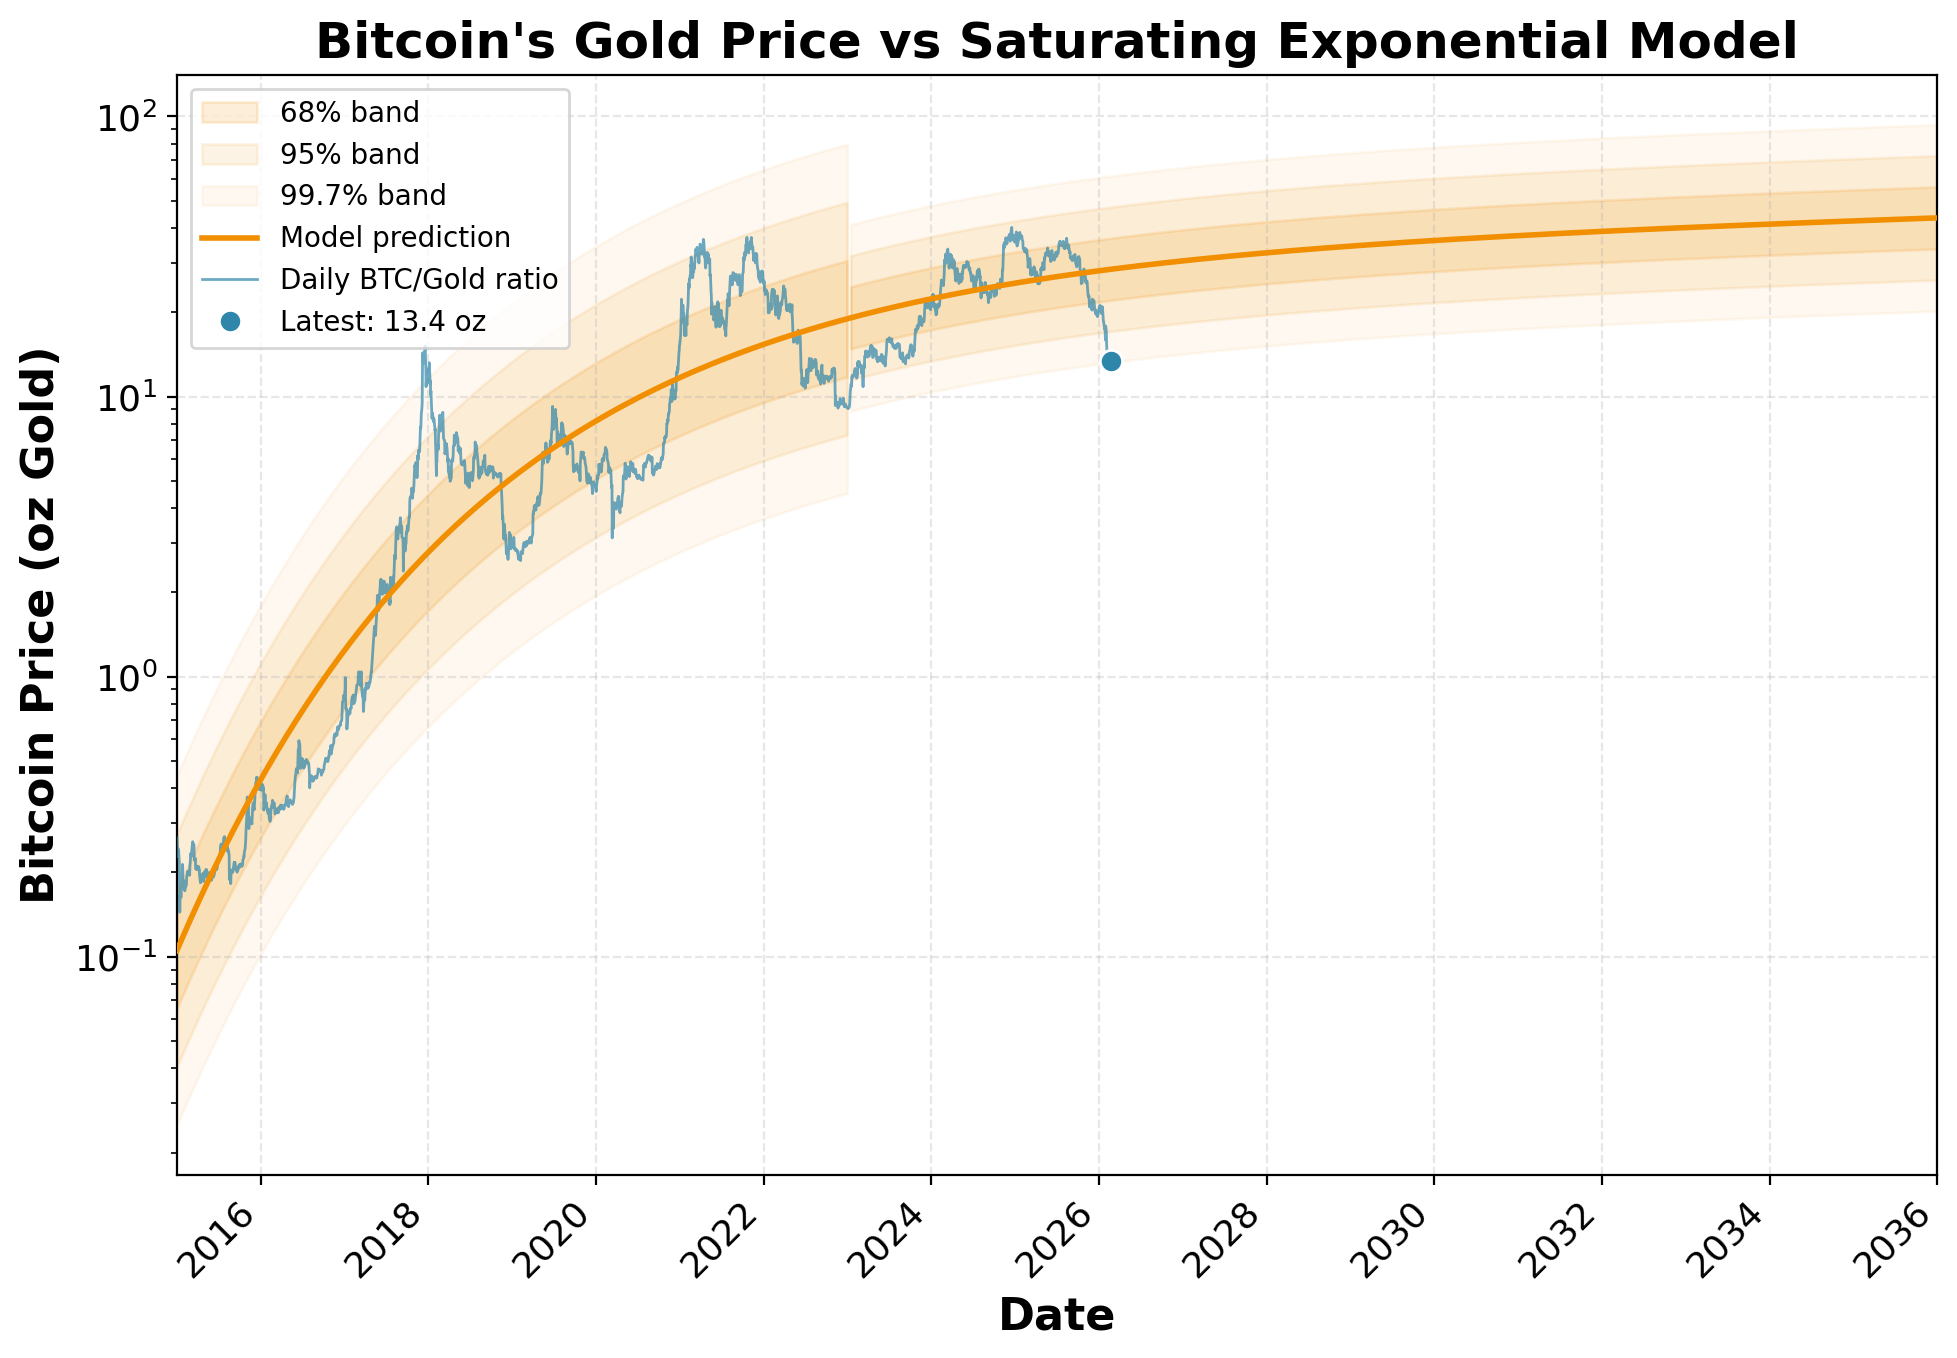
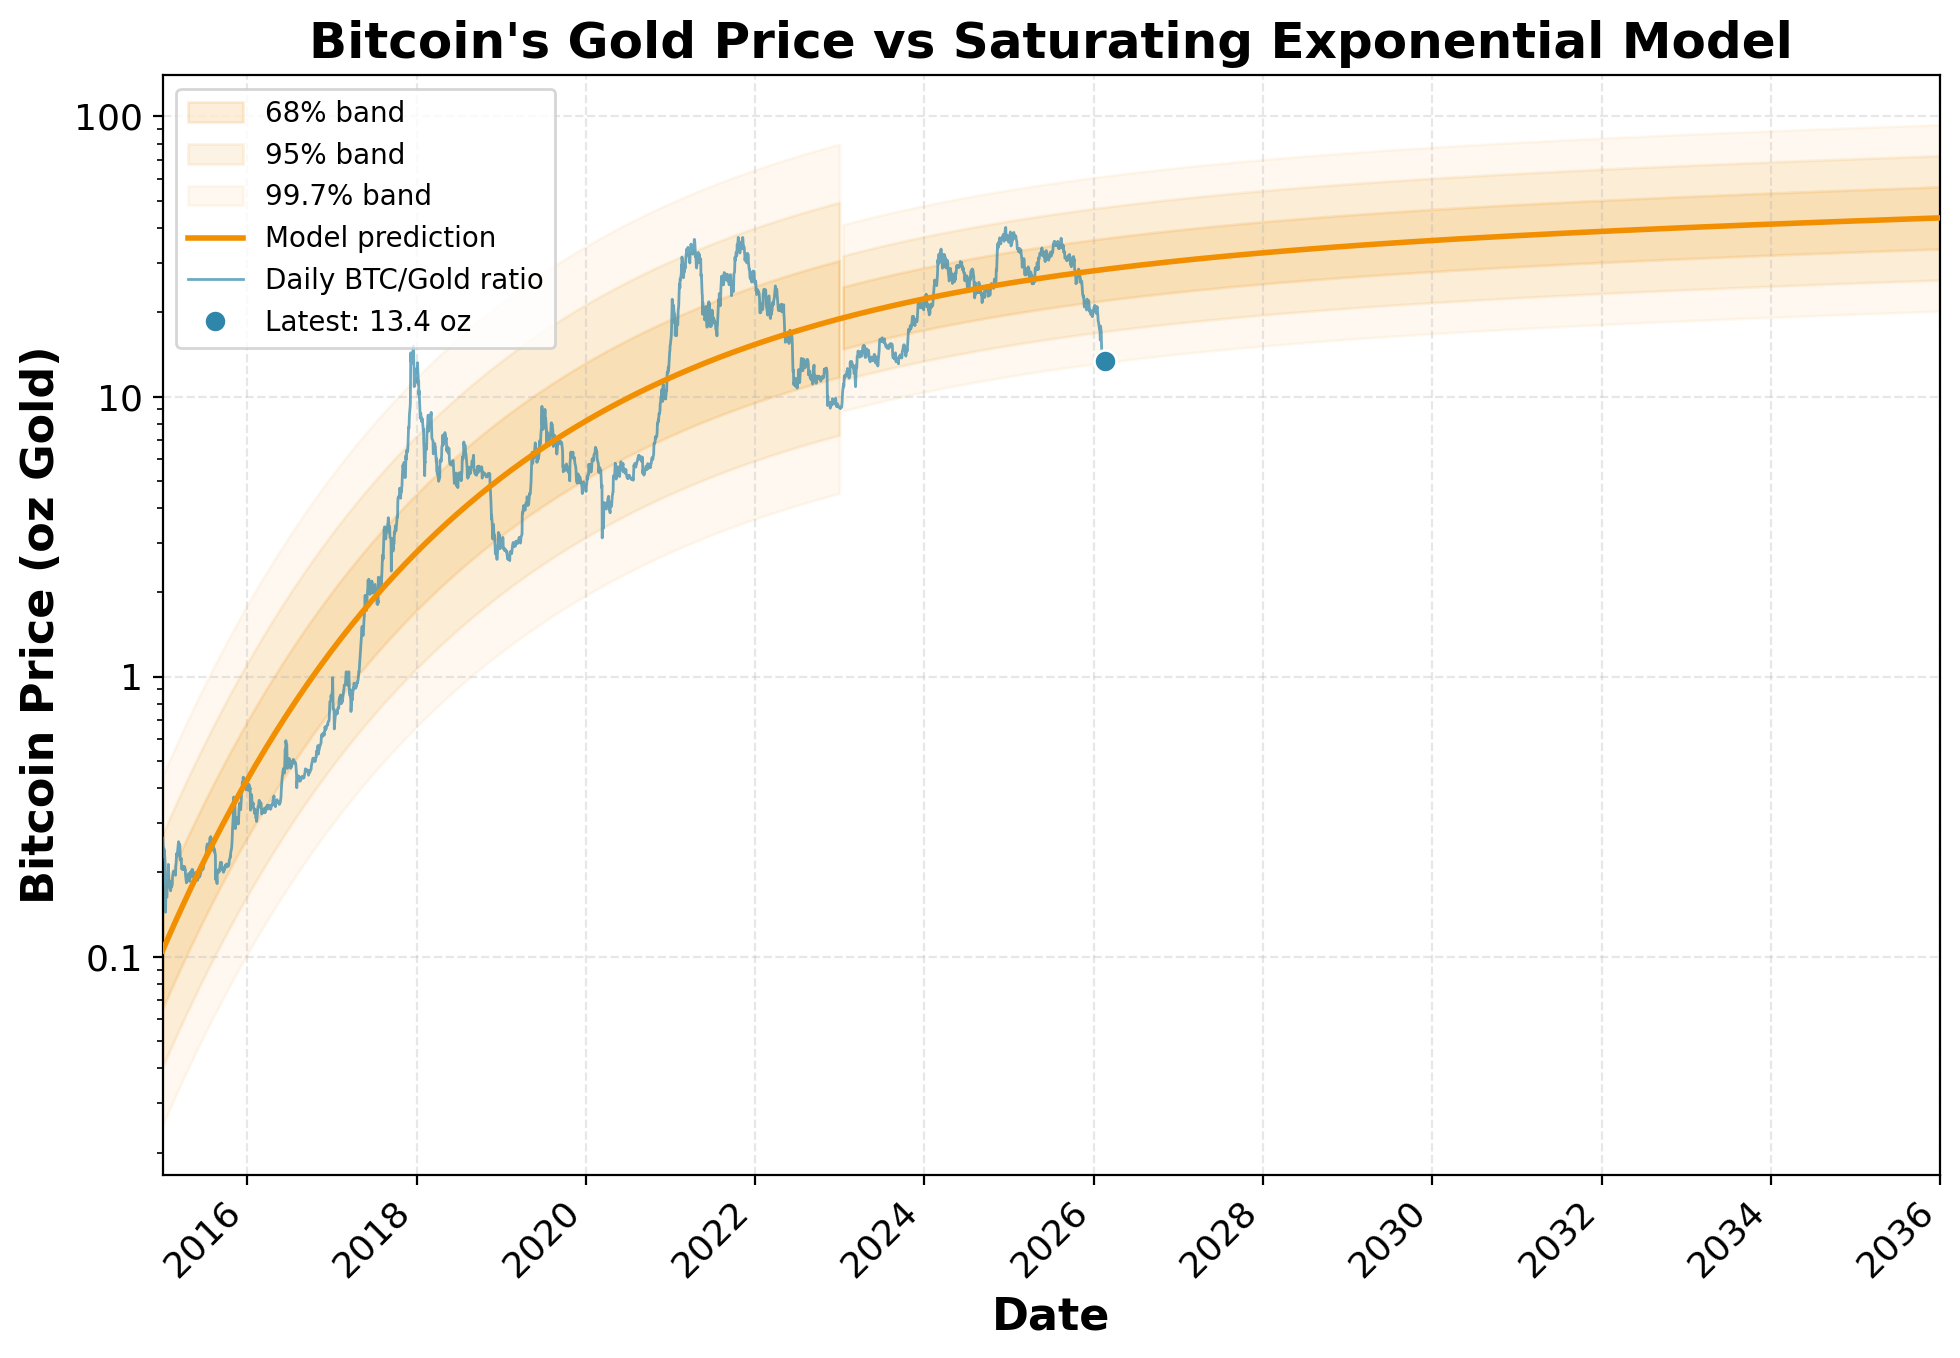
Use decimal format on ratio plot y-axis instead of scientific notation

diff --git a/index.html b/index.html
@@ -87,7 +87,7 @@
 </details>
 
 <div class="footer">
-  <p>Last updated: 2026-02-22 21:26 UTC</p>
+  <p>Last updated: 2026-02-22 21:38 UTC</p>
   <p>Data: BTC-USD and Gold futures (closing prices) via Yahoo Finance.</p>
   <p><a href="bitcoin_gold_biggs.pdf">Paper (PDF)</a> |
      <a href="bitcoin_gold_Biggs_(20260127).html">Paper (HTML)</a> |

diff --git a/update_dashboard.py b/update_dashboard.py
@@ -240,6 +240,7 @@ def create_ratio_plot(daily_df, output_path):
     ax.set_title("Bitcoin's Gold Price vs Saturating Exponential Model",
                  fontweight='bold')
     ax.set_xlim(pd.to_datetime('2015-01-01'), pd.to_datetime('2036-01-01'))
+    ax.yaxis.set_major_formatter(plt.FuncFormatter(lambda y, _: f'{y:g}'))
     ax.legend(loc='upper left', fontsize=10)
     ax.grid(True, alpha=0.3, linestyle='--')
     ax.xaxis.set_major_locator(mdates.YearLocator(2))
